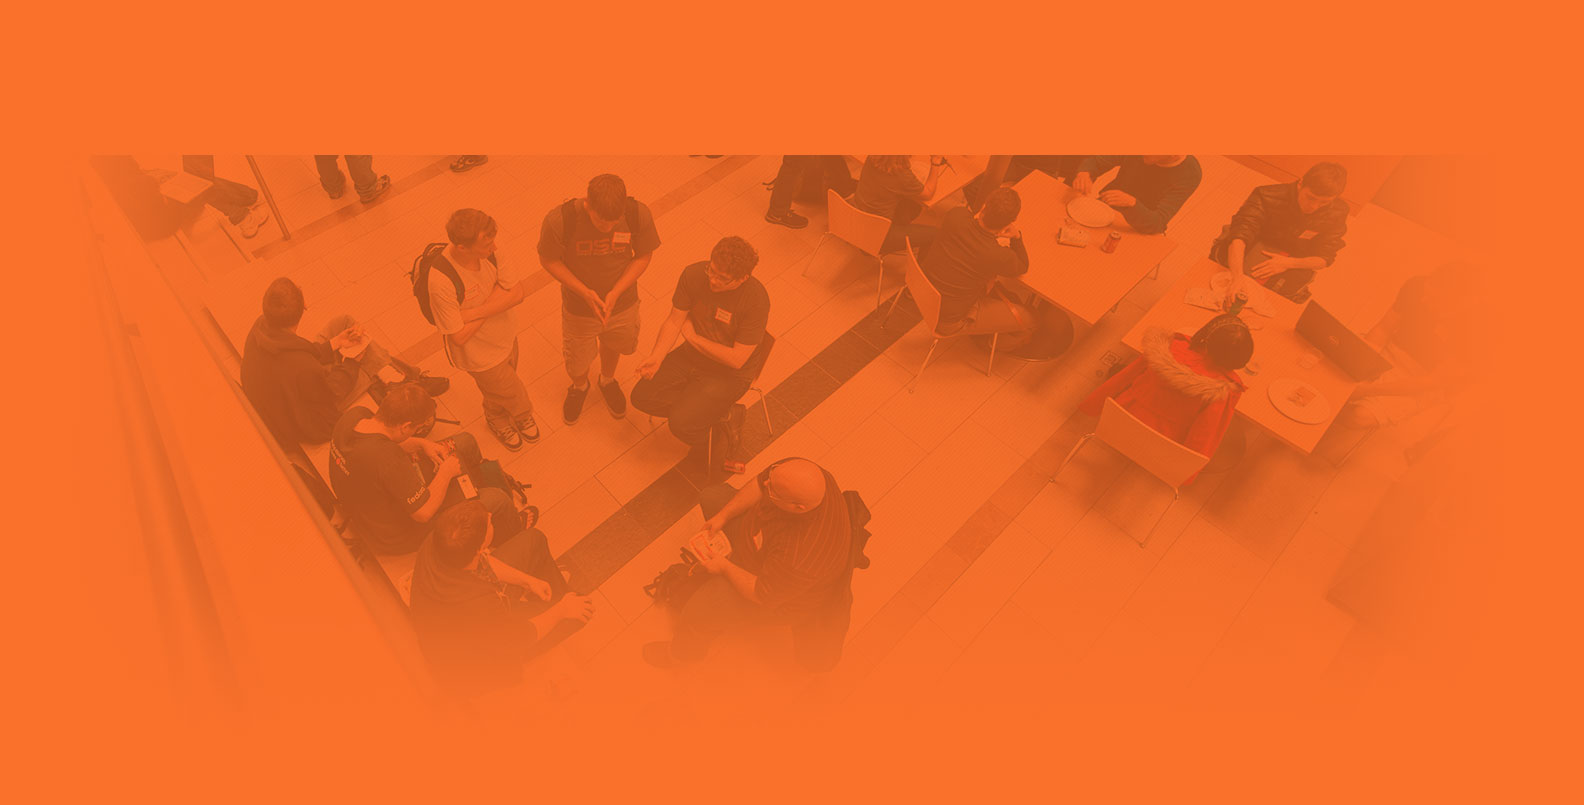
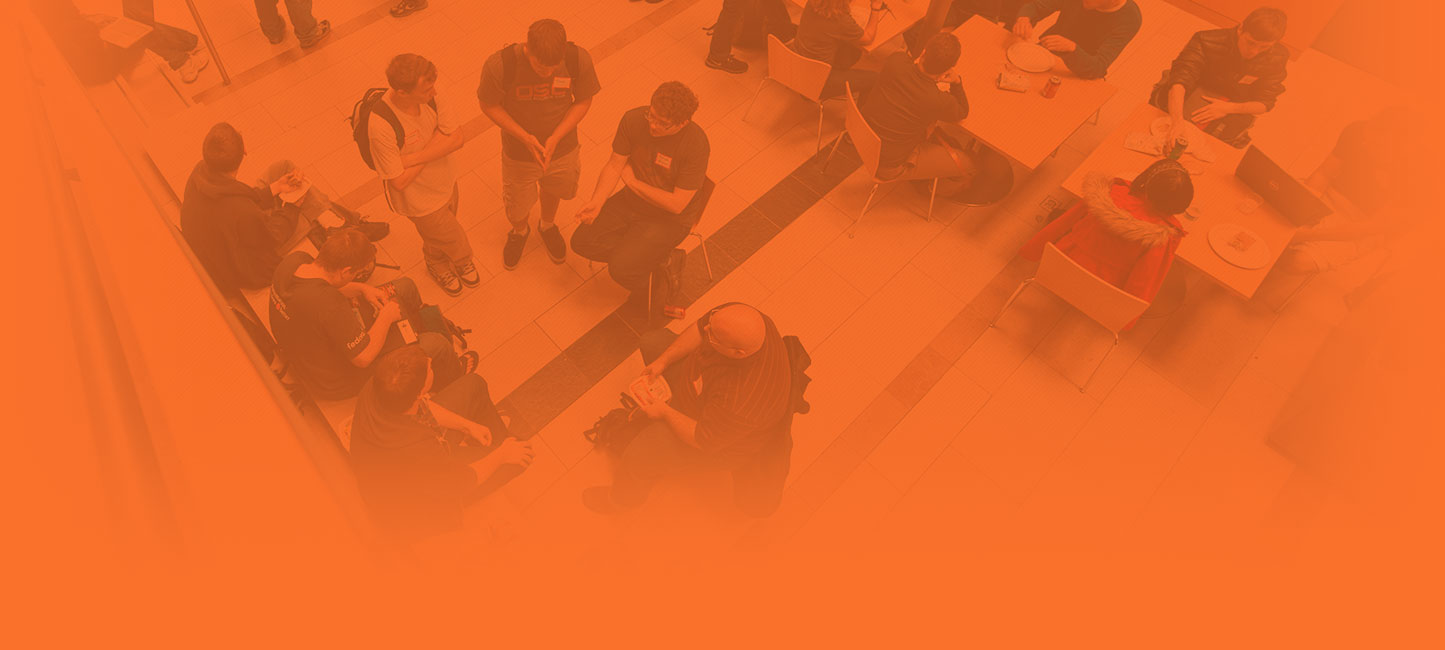
Fixed navigation on mobile, added search bar

diff --git a/css/style.css b/css/style.css
@@ -1,5 +1,5 @@
 body {
-	background:#F9712C url(../img/FeaturedImage.jpg) no-repeat top center;
+	background:#F9712C;
 	padding:0px;
 	margin:0px;
 }
@@ -47,45 +47,6 @@ a:hover {
 	color:#bb5200;
 }
 
-ul.navigation-main {
-	display:inline;
-}
-
-ul.navigation-main li {
-	display:inline;
-	padding:0 10px 0px 0;
-}
-
-/* nav from http://webdesignerwall.com/tutorials/css-responsive-navigation-menu, thank you much <3 */
-.nav {
-	position: relative;
-	margin: 20px 0;
-}
-.nav ul {
-	margin: 0;
-	padding: 0;
-}
-.nav li {
-	margin: 0 5px 10px 0;
-	padding: 0;
-	list-style: none;
-	display: inline-block;
-}
-.nav a {
-	padding: 3px 12px;
-	text-decoration: none;
-	color: #999;
-	line-height: 100%;
-}
-.nav a:hover {
-	color: #000;
-}
-.nav .current a {
-	background: #999;
-	color: #fff;
-	border-radius: 5px;
-}
-
 h1,
 h2,
 h3,
@@ -95,6 +56,28 @@ h6 {
 	font-family:'Antic Slab', serif;
 	font-weight:normal;
 	font-smooth: always;
+}
+
+/*Navigation*/
+#navbar ul {
+	padding:35px 10px;
+	margin:0px;
+	display:inline;
+}
+
+#navbar ul li {
+	display:inline;
+	padding:25px 0;
+	margin:10px 10px 0 0;
+	list-style:none;
+	float:left;
+}
+
+#navbar ul li a:link,
+#navbar ul li a:active,
+#navbar ul li a:visited {
+	text-transform:uppercase;
+	font-size:12px;
 }
 
 dd {
@@ -124,15 +107,9 @@ h4#schedule {
 	padding:20px 0 0 0;
 }
 
-#logo {
-	width:100%;
-	max-width:440px;
-	padding:0px;
-	margin:0px;
-}
-
-#navbar, 
-#tweet {
+#logo {}
+ 
+.padding {
 	padding:35px 0 0 0;
 	margin:0px;
 }
@@ -176,10 +153,8 @@ hr {
 	clear:both;
 }
 
-.hero-unit {
-	background:none;
-	width:90%;
-	max-width:1180px;
+#hero-centered {
+	background:#F9712C url(../img/FeaturedImage.jpg) no-repeat top center;
 	margin:0px auto;
 	text-align:center;
 	padding:80px 0;
@@ -196,8 +171,7 @@ hr {
 	padding:40px 20px;
 	clear:both;
 	margin:0px auto;
-	margin-left:-20px;
-	background:#F9712C;
+	background:#332E2C;
 	color:#fff;
 }
 
@@ -243,7 +217,6 @@ hr {
 
 
 @media (max-width: 480px) {
-
 .container {
 	padding:20px;
 	-moz-border-radius: 0px;
@@ -252,20 +225,35 @@ hr {
 	-khtml-border-radius: 0px; /* for old Konqueror browsers */
 }
 
+#navbar ul li {
+	display:inline;
+	padding:10px 5px;
+	margin:10px 10px 0 0;
+	list-style:none;
+	float:left;
+}
+
+.page-header {
+	padding:20px;
+}
 
 .page-header .container {
 	padding:0px;
 	margin:0px;
 }
 
-ul.navigation-main li {
-	margin:0 0 0 20px;
+#hero-centered {
+	padding:40px 20px;
 }
-
 
 #logo {
 	padding:0px 10px;
 	margin:0px;
+	text-align:center;
+}
+
+.navbar {
+	padding:40px 20px 20px 20px;
 }
 
 
@@ -273,68 +261,8 @@ ul.navigation-main li {
 	padding:40px 0px;
 }
 
-.page-header {
-	padding:20px 0px;
+#tweet {
+	display:none;
 }
-
-.nav {
-	position: relative;
-	min-height: 40px;
-}	
-
-.nav ul {
-	width: 180px;
-	padding: 5px 0;
-	position: absolute;
-	top: 0;
-	left: 0;
-	border: solid 1px #aaa;
-		background: #fff url(images/icon-menu.png) no-repeat 10px 11px;
-		border-radius: 5px;
-		box-shadow: 0 1px 2px rgba(0,0,0,.3);
-}
-	.nav li {
-		display: none; /* hide all <li> items */
-		margin: 0;
-	}
-	.nav .current {
-		display: block; /* show only current <li> item */
-	}
-	.nav a {
-		display: block;
-		padding: 5px 5px 5px 32px;
-		text-align: left;
-	}
-	.nav .current a {
-		background: none;
-		color: #666;
-	}
-
-	/* on nav hover */
-	.nav ul:hover {
-		background-image: none;
-	}
-	.nav ul:hover li {
-		display: block;
-		margin: 0 0 5px;
-	}
-	.nav ul:hover .current {
-		background: url(images/icon-check.png) no-repeat 10px 7px;
-	}
-
-	/* right nav */
-	.nav.right ul {
-		left: auto;
-		right: 0;
-	}
-
-	/* center nav */
-	.nav.center ul {
-		left: 50%;
-		margin-left: -90px;
-	}
-	
-}
-
 
 }

diff --git a/index.html b/index.html
@@ -5,20 +5,20 @@
         
     	<!--Beaver Barcamp was built using Twitter Bootstrap <3 -->
         <link rel="stylesheet" href="css/bootstrap.css" />
-        
-        <!--Custom styles specific for Barcamp website -->
         <link rel="stylesheet" href="css/style.css" />
         
-        <!-- We <3 Viewport Tags -->
-        <meta name="viewport" content="width=device-width, initial-scale=1.0">
+        <meta name="viewport" content="width=device-width">
         
         <link rel="shortcut icon" href="favicon.png" type="image/x-icon" />
         
 		<!--Antic Slab font from Google Web Fonts-->
 		<link href='http://fonts.googleapis.com/css?family=Antic+Slab' rel='stylesheet' type='text/css'>
 		
-		<script src="http://code.jquery.com/jquery.js"></script>
-    	<script src="js/bootstrap.min.js"></script>
+    	 <!-- HTML5 shim, for IE6-8 support of HTML5 elements -->
+    	<!--[if lt IE 9]>
+    		<script src="http://html5shim.googlecode.com/svn/trunk/html5.js"></script>
+  		<![endif]-->
+  		
     </head>
     
     <body>
@@ -26,24 +26,23 @@
     <div class="page-header">        
     <div class="container">
     	<div class="row">
-    		<div class="span5" id="logo">
+    		<div class="span5">
             	<a href="http://beaverbarcamp.org"><img src="img/logo.png" alt="Beaver Barcamp Logo" border="0" /></a>
             </div>
             
-            <div class="span5" id="navbar">
-            	<ul class="navigation-main">
-            		<li><a href="#">Home</a></li>
-            		<li><a href="#">Register A Session</a></li>
-            		<li><a href="#">Schedule</a></li>
-            		<li><a href="#">FAQ</a></li>
-            		<li><a href="#">Contact</a></li>
-            	</ul>
-            
-            </div>
-            
-            <div class="span2" id="tweet">
-            	<a href="https://twitter.com/beaverbarcamp" class="twitter-follow-button" data-show-count="false" data-size="large">Follow @beaverbarcamp</a>
-<script>!function(d,s,id){var js,fjs=d.getElementsByTagName(s)[0];if(!d.getElementById(id)){js=d.createElement(s);js.id=id;js.src="//platform.twitter.com/widgets.js";fjs.parentNode.insertBefore(js,fjs);}}(document,"script","twitter-wjs");</script>
+        	<div class="span5" id="navbar">
+        		<ul class="inline">
+        			<li><a href="#">Home</a></li>
+        			<li><a href="#">Blog</a></li>
+        			<li><a href="#">FAQ</a></li>
+        			<li><a href="#">Contact</a></li>
+        			<li>
+        		
+        		<form class="navbar-search">
+  					<input type="text" class="search-query" placeholder="Search">
+				</form> </li>
+        		</ul>
+				
 			</div>
 			
 		</div>
@@ -226,5 +225,9 @@
     	</div>
     </div>
         
+		
+	<script src="http://code.jquery.com/jquery.js"></script>
+    <script src="js/bootstrap.min.js"></script>
+    	
     </body>
 </html>
